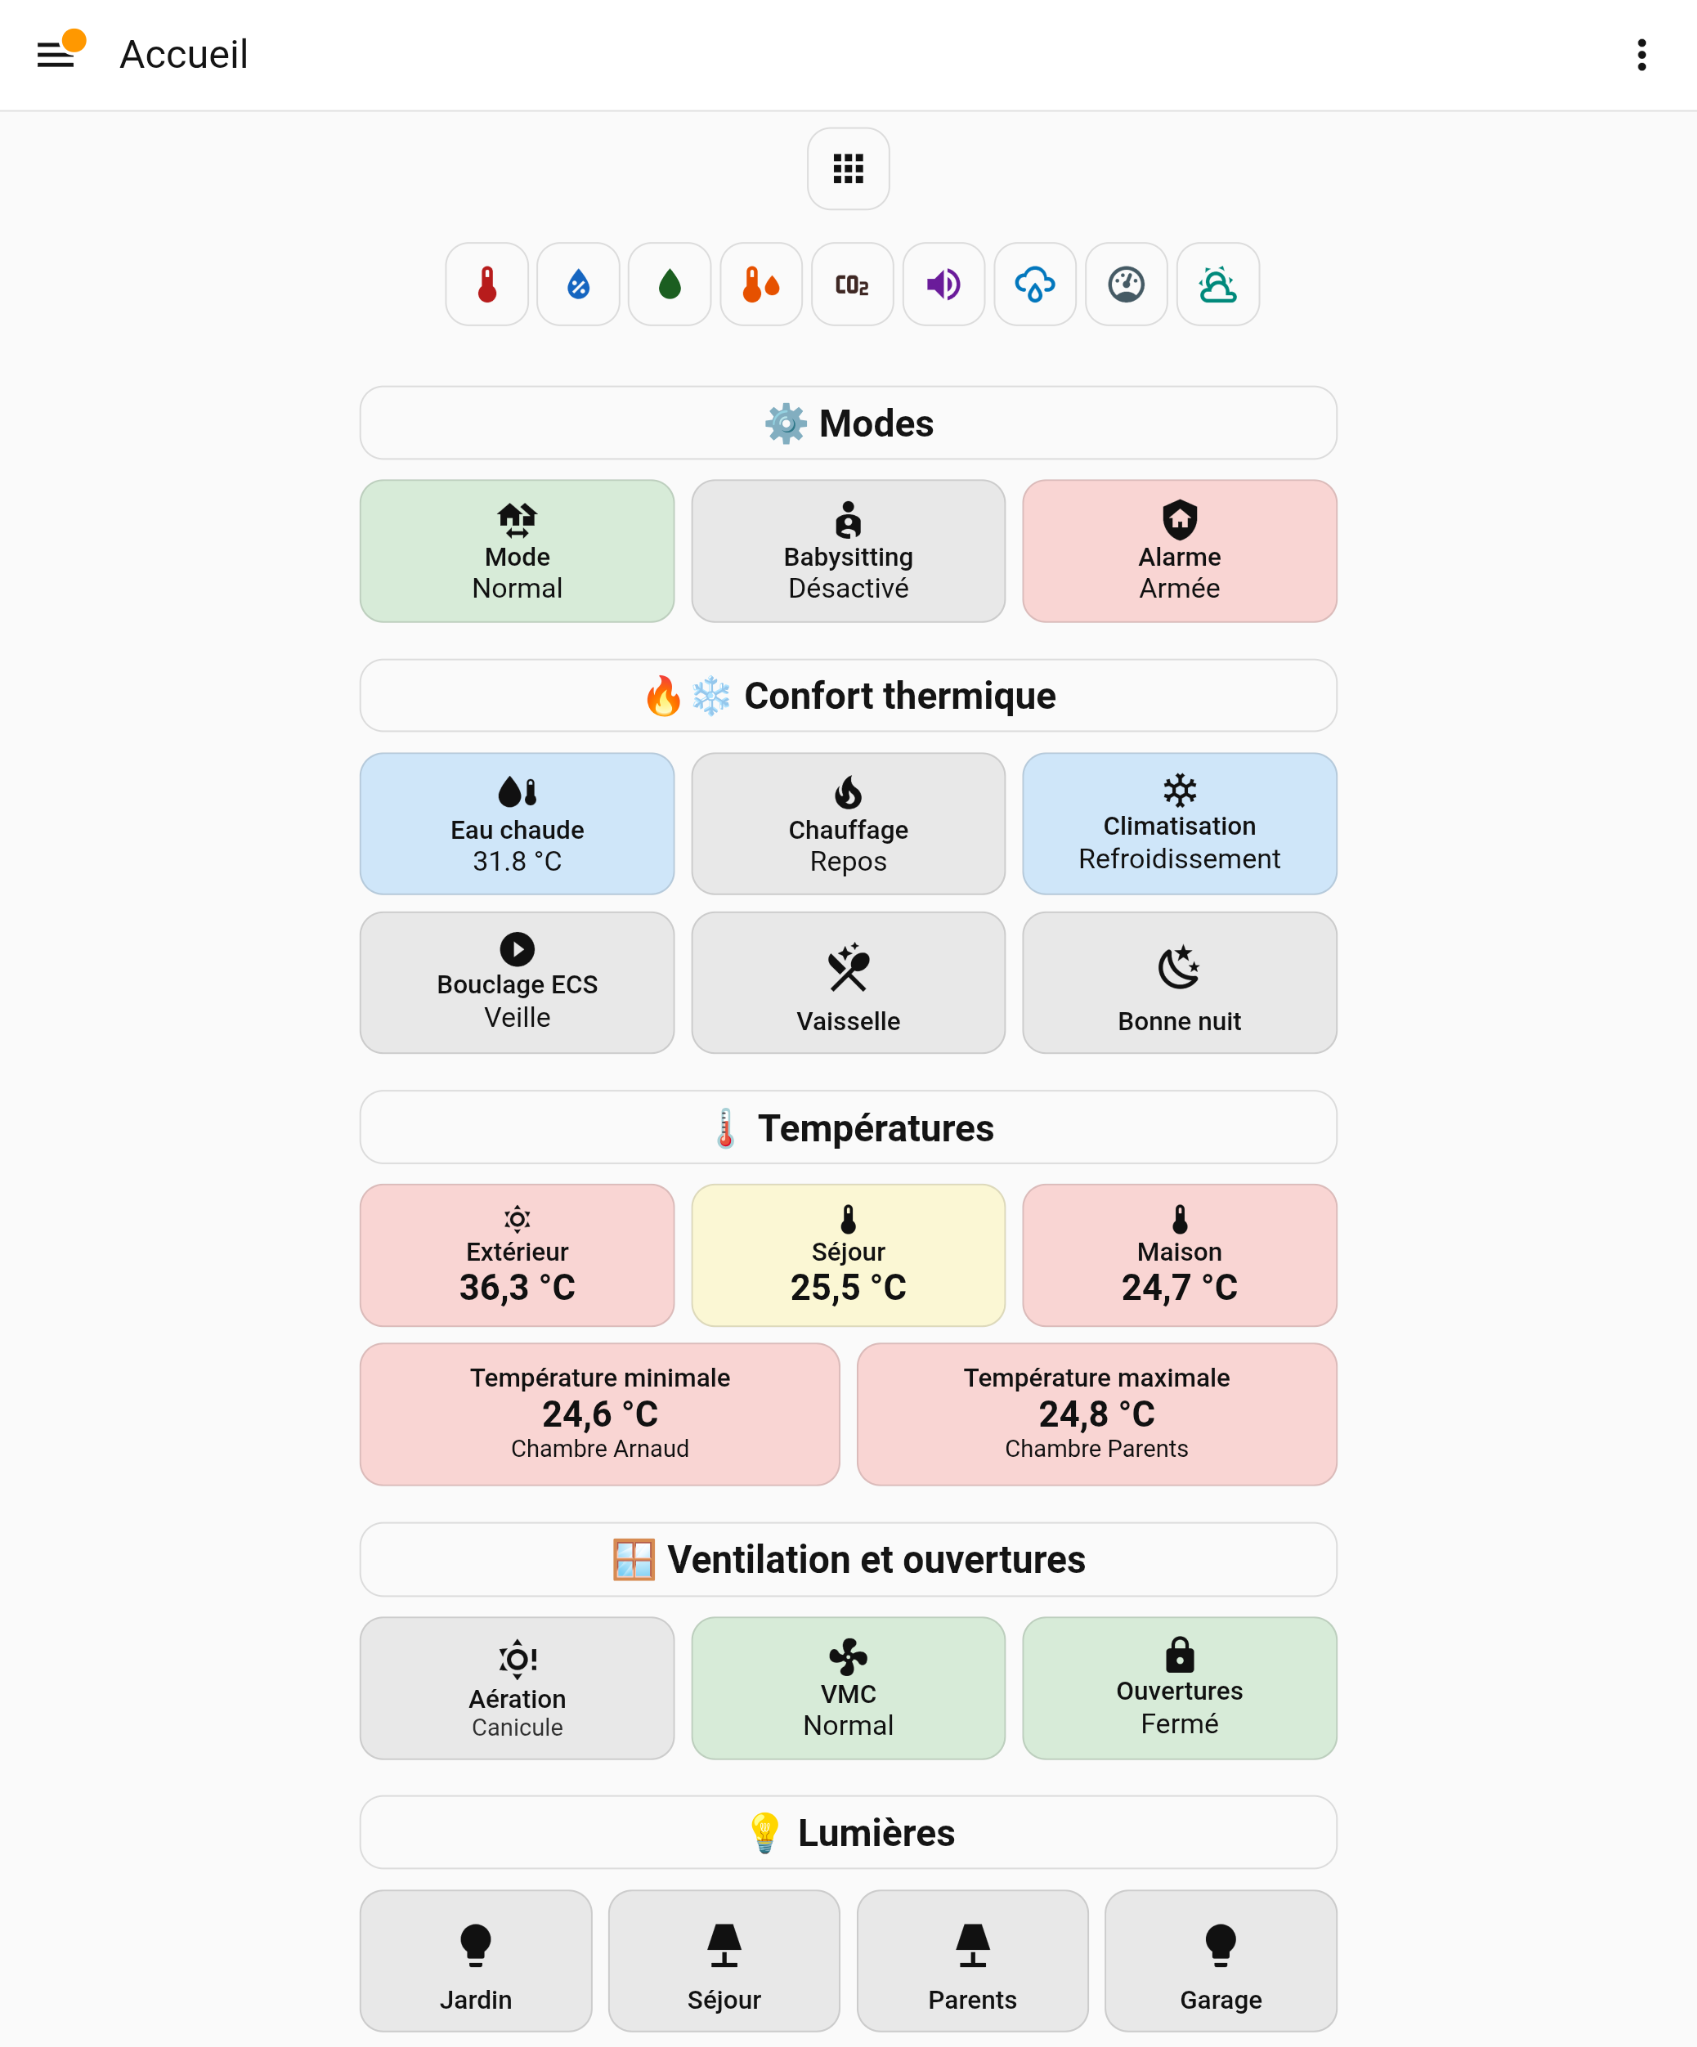
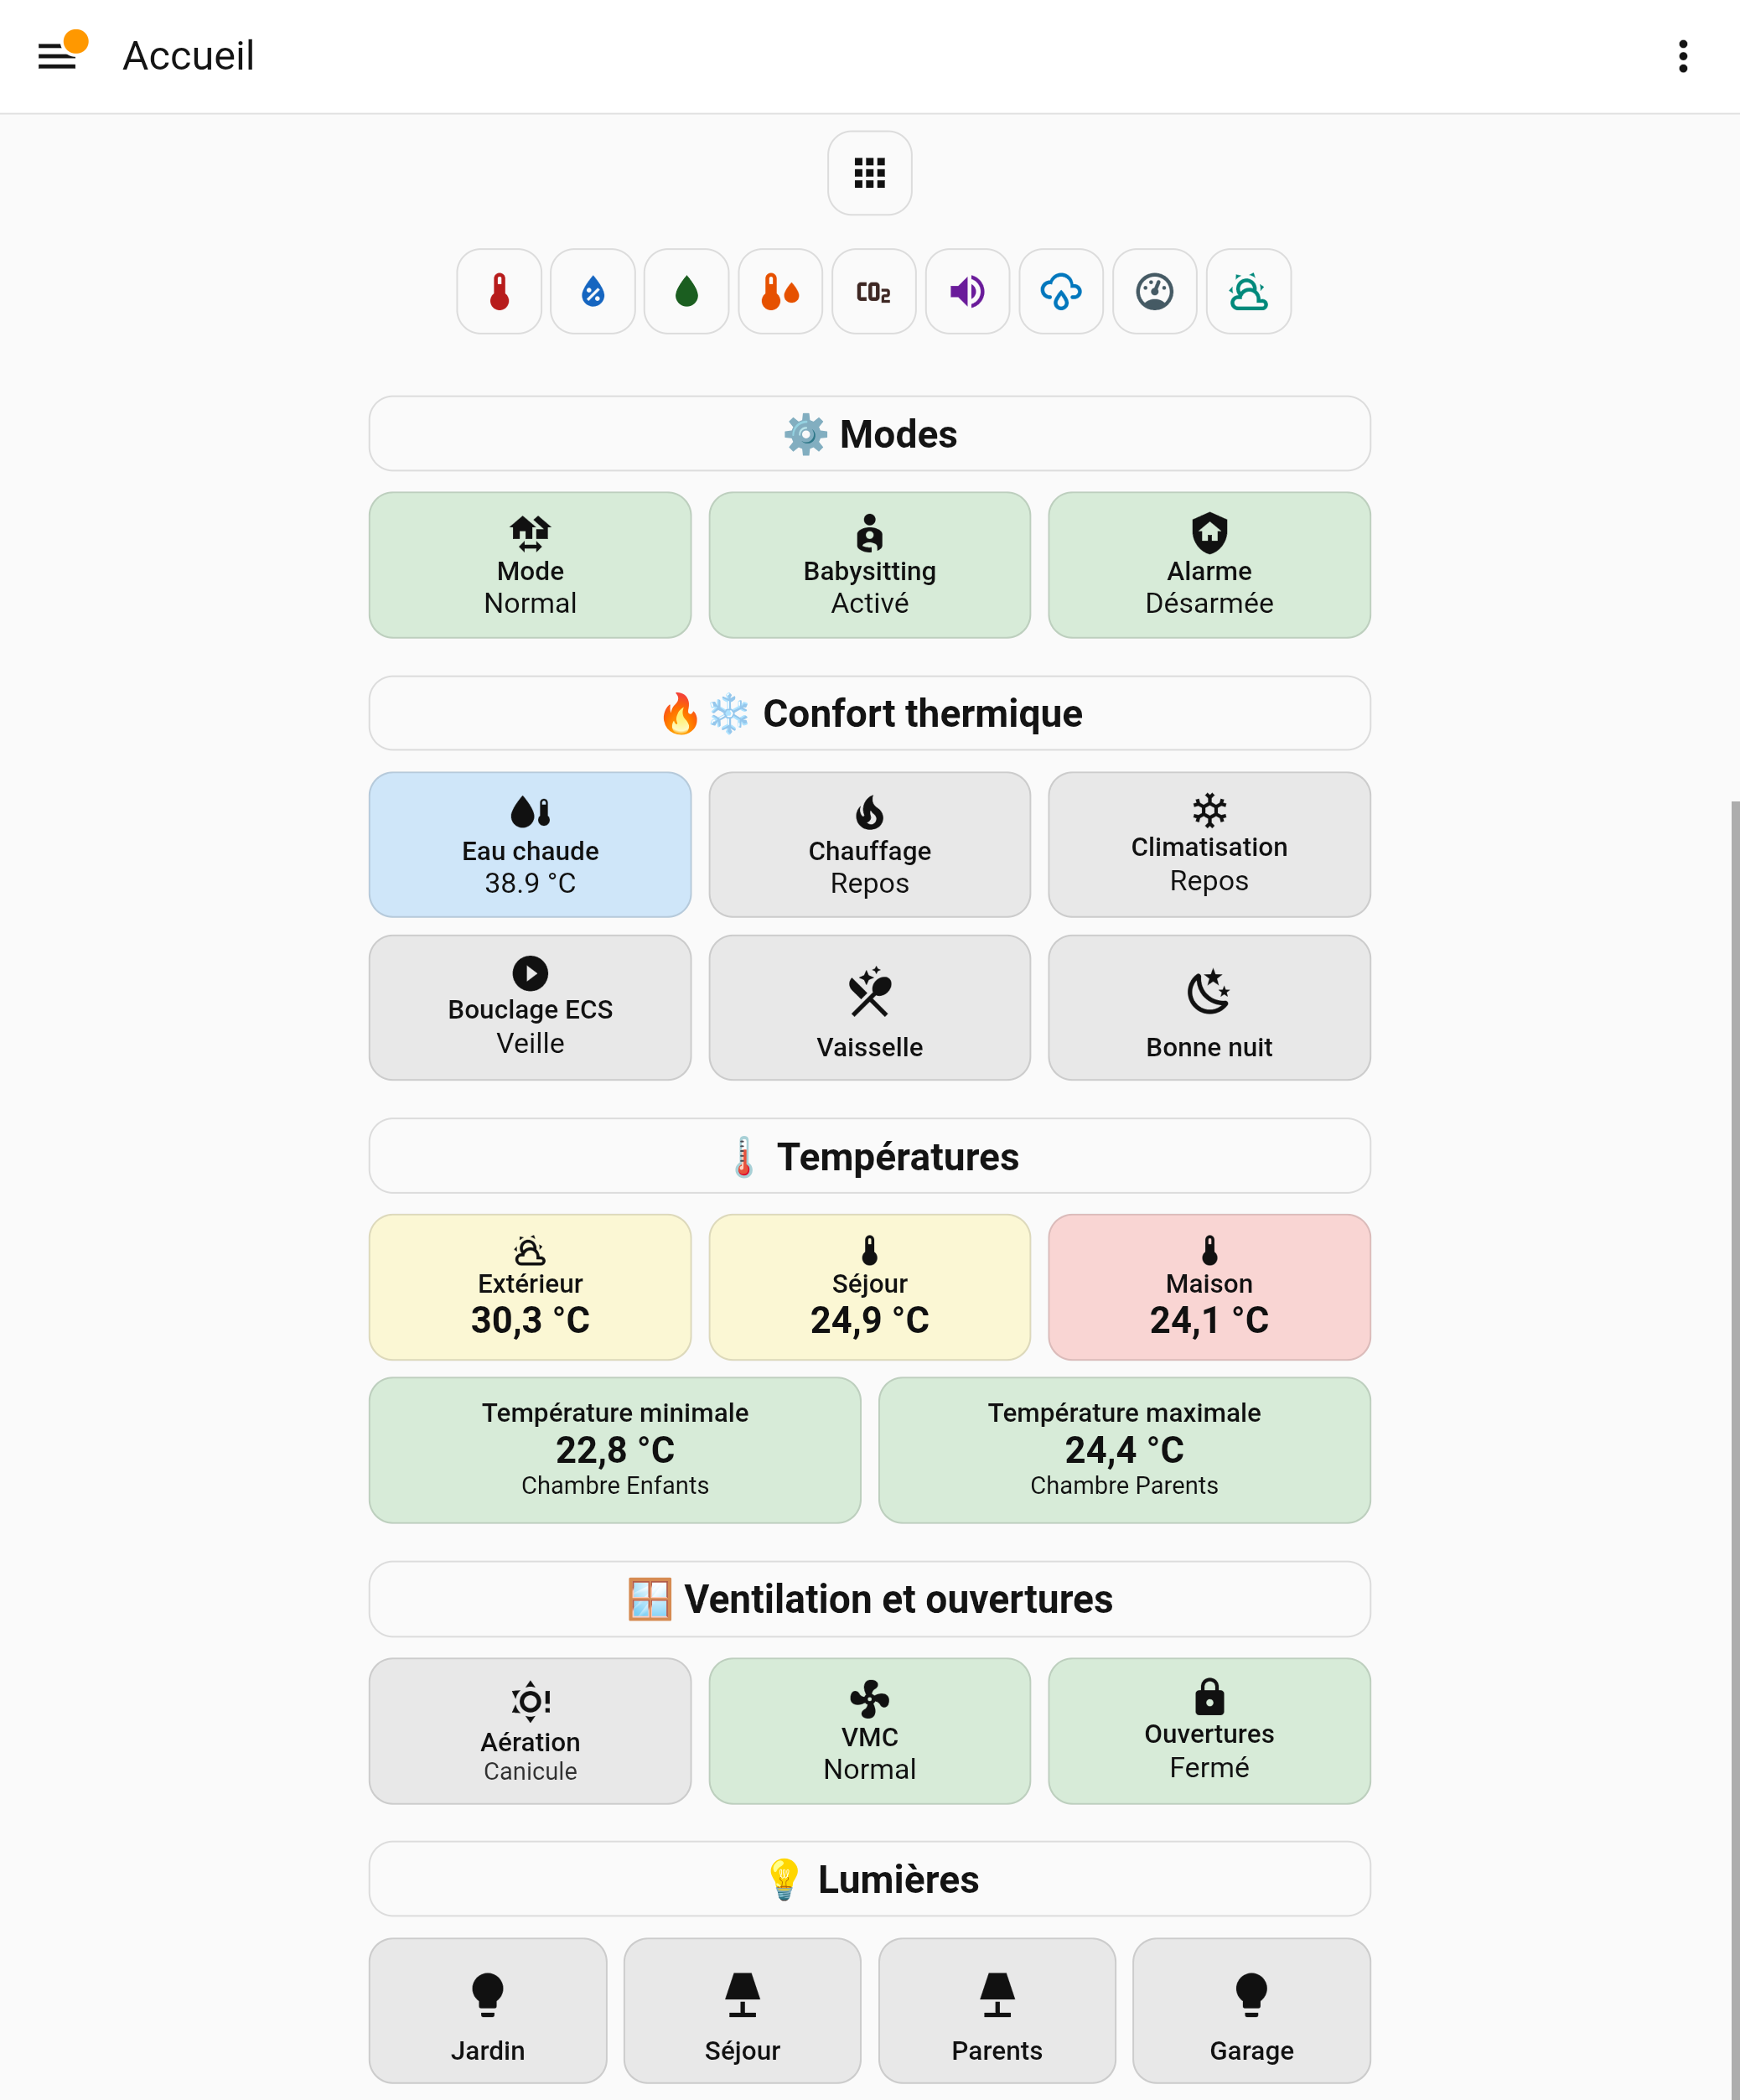
docs(ui): captures — reprise accueil/systeme (dé-identification C32) + navigation (menu factorisé)
Les captures sont des photographies figées de l'UI : le renommage C32 a
assaini le runtime, pas les PNG pris avant lui. Trois fichiers reprisés.

Confidentialité (résidu C32 hors runtime) :

- accueil.png  : « Chambre Arnaud » → « Chambre Enfants ». Cette capture est
  l'image d'en-tête des deux READMEs, donc exposée sans clic sur la page
  d'accueil du dépôt.
- systeme.png  : « Netatmo – Arnaud » / « Netatmo – Matthieu » →
  « Netatmo – Enfants » / « Netatmo – Salle de Jeux ». Reprise en pleine
  page : l'ancienne était tronquée sous la section Netatmo, ce qui
  interdisait de conclure sur ce qui restait hors cadre.

Exactitude (sans rapport avec la confidentialité) :

- navigation.png : la section Système du menu a été factorisée
  (Paramètres = hub /config, Outils Dev = États + Templates + YAML).
  L'ancienne capture montrait 13 entrées qui n'existent plus — le README
  donnait à voir une interface disparue.

READMEs :

- Légende de systeme.png réécrite (FR + EN) pour assumer l'état affiché :
  l'audit y signale 5 anomalies et deux liens dégradés. Conforme au
  « Arsenal n'est pas optimisé pour le screenshot » — une page
  d'observabilité qui n'a jamais rien détecté ne prouve rien.

Limite constatée : le verrou S7 lit des fichiers versionnés, pas des
pixels. Une capture obsolète expose ce que le code n'expose plus, et
aucun contrôle CI ne l'attrape. Les deux défauts ci-dessus — un de
confidentialité, un d'exactitude — sont passés par cet angle mort. La
[…]

diff --git a/README.fr.md b/README.fr.md
@@ -90,7 +90,7 @@ Quelques vues réelles, telles qu'elles tournent. Elles sont **denses par concep
 *Eau chaude sanitaire : température, historique et bouclage supervisé.*
 
 ![Vue Système — observabilité de l'infrastructure](00_documentation_arsenal/ui/captures/systeme.png)<br>
-*Système : observabilité de l'infra — Raspberry Pi, systèmes critiques, connectivité, intégrations.*
+*Système : observabilité de l'infra — Raspberry Pi, systèmes critiques, connectivité, intégrations. Capture non mise en scène : l'audit y signale 5 anomalies et deux liens dégradés. C'est précisément ce qu'on attend d'une vue dont le métier est de voir — une page d'observabilité qui n'a jamais rien détecté ne prouve rien.*
 
 ![Menu de navigation Arsenal — accès à tous les domaines](00_documentation_arsenal/ui/captures/navigation.png)<br>
 *Un point d'entrée unique vers tous les domaines et les outils système.*

diff --git a/README.md b/README.md
@@ -86,7 +86,7 @@ A few real views, as they run. They are **dense by design**: the UI observes sta
 *Domestic hot water: temperature, history and supervised recirculation loop.*
 
 ![System view — infrastructure observability](00_documentation_arsenal/ui/captures/systeme.png)<br>
-*System: infrastructure observability — Raspberry Pi, critical systems, connectivity, integrations.*
+*System: infrastructure observability — Raspberry Pi, critical systems, connectivity, integrations. Unstaged: the audit is flagging 5 anomalies and two degraded links. That is exactly what a view whose job is to see is supposed to do — an observability page that has never caught anything proves nothing.*
 
 ![Boiler bridge — combustion, acknowledged transactions and supervision](00_documentation_arsenal/ui/captures/systeme-boiler-bridge.png)<br>
 *Boiler bridge: every physical command is transactional — acknowledgement, guard and supervision.*